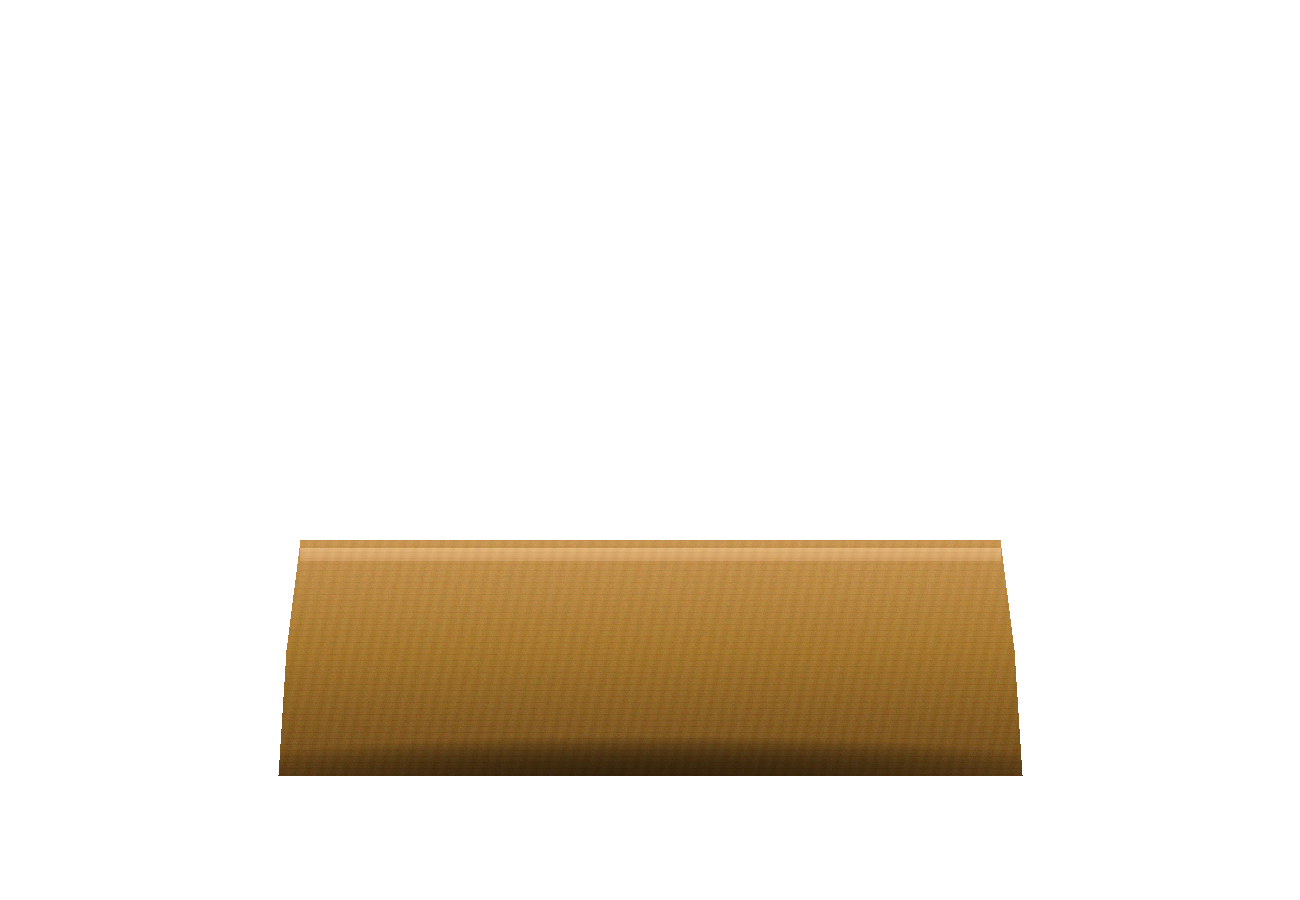
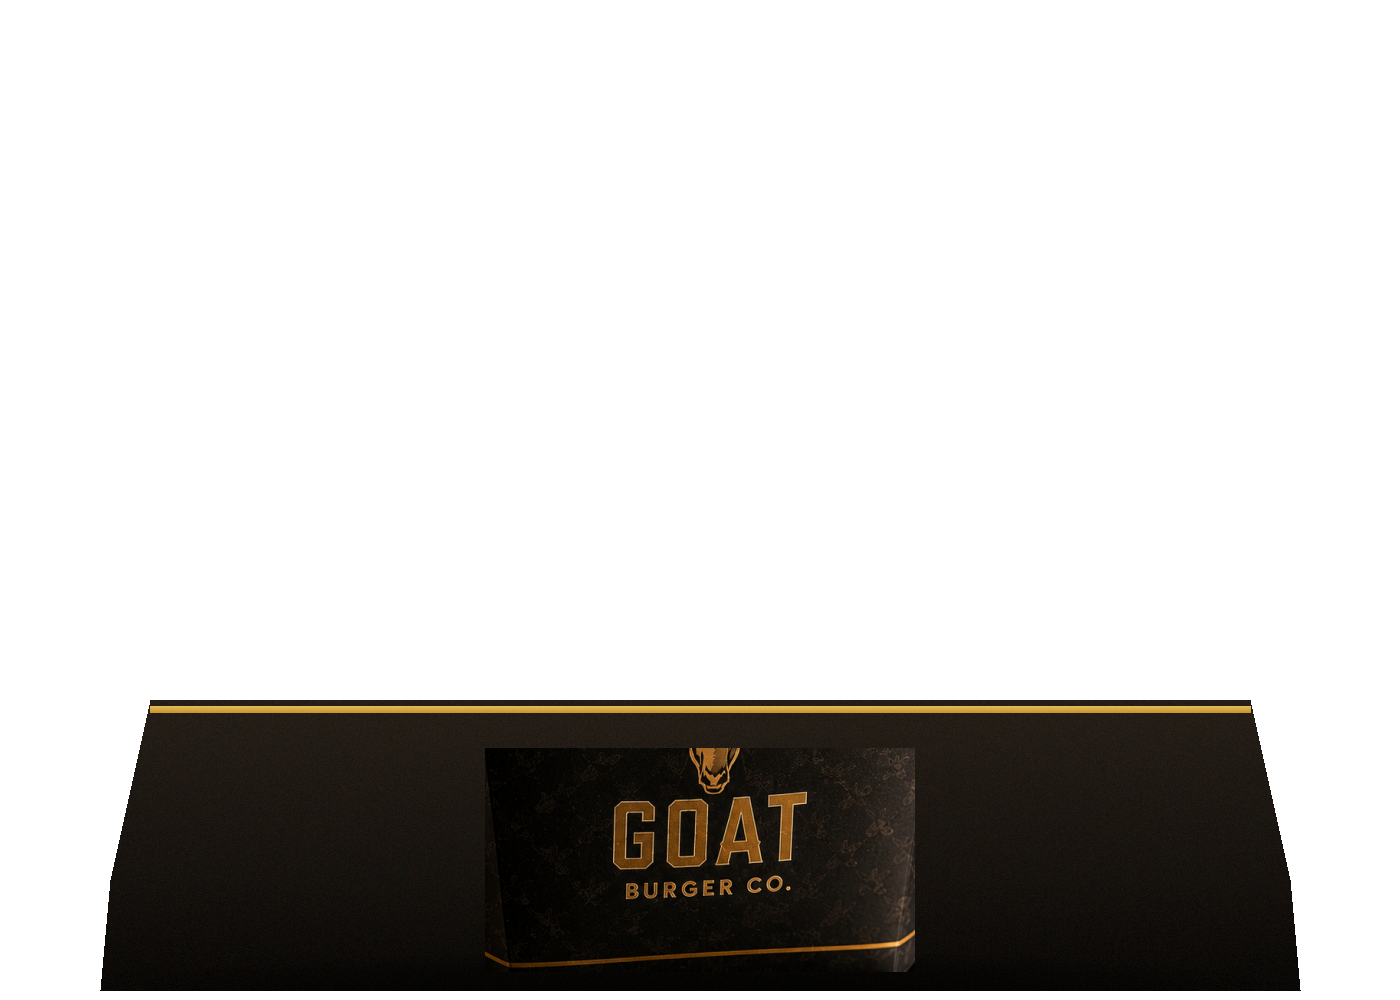
feat: use branded GOAT BURGER CO. assets + one-by-one packing into black+gold box
- menu cards now use the provided branded photos (burger/fries/shake/combo)
- packing box re-skinned to the branded black+gold box (box-back/front/lid via draw-box.js)
- box scene uses the branded burger/fries/shake cutouts (feathered to blend on the black box)
- deconstructed burger crossfades into the branded burger, then items enter ONE BY ONE:
  burger settles -> fries slide in -> shake slides in -> lid folds shut -> existing menu
- track 1200->1320vh to preserve pacing; source assets gitignored

Changed region(s): [[0.0615, 0.5911, 0.9538, 0.9956]]

diff --git a/draw-box.js b/draw-box.js
@@ -1,118 +1,86 @@
-/* Draw a realistic open kraft takeaway box as image pieces I can actually SEE:
-   box-back.png  = interior floor + back wall + side walls (sits BEHIND the food)
-   box-front.png = front wall/rim (sits IN FRONT of the food's base → food looks inside)
-   box-lid.png   = the lid panel (rotates down to close)
-   Plus a preview compositing the food inside, to tune positions. */
+/* Render the GOAT BURGER CO. branded takeaway box (black + gold, matches asset-1):
+   box-back.png  = gold open-lid backdrop (with logo) + black interior floor  (BEHIND food)
+   box-front.png = black front wall with the gold wordmark                    (IN FRONT of food base)
+   box-lid.png   = black lid with the gold logo (folds down to close) */
 const Jimp = require("jimp");
+const W = 1400, H = 1000;
+const rnd = a => (Math.random()*2-1)*a;
 
-const W = 1300, H = 900;
-const rnd = (a) => (Math.random() * 2 - 1) * a;
-
-// fill a convex quad (p0..p3 clockwise) with a vertical gradient + cardboard grain
-function quad(img, p, cTop, cBot, grain = 8) {
-  const xs = p.map(q => q[0]), ys = p.map(q => q[1]);
-  const x0 = Math.max(0, Math.floor(Math.min(...xs))), x1 = Math.min(img.bitmap.width - 1, Math.ceil(Math.max(...xs)));
-  const y0 = Math.max(0, Math.floor(Math.min(...ys))), y1 = Math.min(img.bitmap.height - 1, Math.ceil(Math.max(...ys)));
-  const yTop = Math.min(...ys), yBot = Math.max(...ys);
-  const inTri = (px, py, a, b, c) => {
-    const d1 = (px - b[0]) * (a[1] - b[1]) - (a[0] - b[0]) * (py - b[1]);
-    const d2 = (px - c[0]) * (b[1] - c[1]) - (b[0] - c[0]) * (py - c[1]);
-    const d3 = (px - a[0]) * (c[1] - a[1]) - (c[0] - a[0]) * (py - a[1]);
-    const neg = (d1 < 0) || (d2 < 0) || (d3 < 0), pos = (d1 > 0) || (d2 > 0) || (d3 > 0);
-    return !(neg && pos);
-  };
-  const d = img.bitmap.data, w = img.bitmap.width;
-  for (let y = y0; y <= y1; y++) for (let x = x0; x <= x1; x++) {
-    if (!(inTri(x, y, p[0], p[1], p[2]) || inTri(x, y, p[0], p[2], p[3]))) continue;
-    let t = (y - yTop) / (yBot - yTop + 1e-6);
-    // horizontal corrugation + grain
-    const corr = Math.sin((x + y * 0.2) * 0.5) * 3 + (((y % 6) < 1) ? -6 : 0);
-    const r = cTop[0] + (cBot[0] - cTop[0]) * t + rnd(grain) + corr;
-    const g = cTop[1] + (cBot[1] - cTop[1]) * t + rnd(grain) + corr;
-    const b = cTop[2] + (cBot[2] - cTop[2]) * t + rnd(grain) + corr;
-    const i = (y * w + x) * 4;
-    d[i] = Math.max(0, Math.min(255, r)); d[i+1] = Math.max(0, Math.min(255, g)); d[i+2] = Math.max(0, Math.min(255, b)); d[i+3] = 255;
+function quad(img, p, cTop, cBot, grain=6){
+  const xs=p.map(q=>q[0]), ys=p.map(q=>q[1]);
+  const x0=Math.max(0,Math.floor(Math.min(...xs))), x1=Math.min(img.bitmap.width-1,Math.ceil(Math.max(...xs)));
+  const y0=Math.max(0,Math.floor(Math.min(...ys))), y1=Math.min(img.bitmap.height-1,Math.ceil(Math.max(...ys)));
+  const yTop=Math.min(...ys), yBot=Math.max(...ys);
+  const inTri=(px,py,a,b,c)=>{const d1=(px-b[0])*(a[1]-b[1])-(a[0]-b[0])*(py-b[1]);const d2=(px-c[0])*(b[1]-c[1])-(b[0]-c[0])*(py-c[1]);const d3=(px-a[0])*(c[1]-a[1])-(c[0]-a[0])*(py-a[1]);const neg=(d1<0)||(d2<0)||(d3<0),pos=(d1>0)||(d2>0)||(d3>0);return !(neg&&pos);};
+  const d=img.bitmap.data,w=img.bitmap.width;
+  for(let y=y0;y<=y1;y++)for(let x=x0;x<=x1;x++){
+    if(!(inTri(x,y,p[0],p[1],p[2])||inTri(x,y,p[0],p[2],p[3])))continue;
+    const t=(y-yTop)/(yBot-yTop+1e-6);
+    const r=cTop[0]+(cBot[0]-cTop[0])*t+rnd(grain), g=cTop[1]+(cBot[1]-cTop[1])*t+rnd(grain), b=cTop[2]+(cBot[2]-cTop[2])*t+rnd(grain);
+    const i=(y*w+x)*4; d[i]=Math.max(0,Math.min(255,r));d[i+1]=Math.max(0,Math.min(255,g));d[i+2]=Math.max(0,Math.min(255,b));d[i+3]=255;
   }
 }
-// soft drop shadow ellipse (darken)
-function shadow(img, cx, cy, rx, ry, al) {
-  const d = img.bitmap.data, w = img.bitmap.width, h = img.bitmap.height;
-  for (let y = Math.max(0, cy - ry); y < Math.min(h, cy + ry); y++)
-    for (let x = Math.max(0, cx - rx); x < Math.min(w, cx + rx); x++) {
-      const dx = (x - cx) / rx, dy = (y - cy) / ry, tt = dx*dx + dy*dy;
-      if (tt < 1) { const a = al * (1 - tt); const i = (y*w+x)*4;
-        d[i] *= (1-a); d[i+1] *= (1-a); d[i+2] *= (1-a); }
-    }
-}
+function shadow(img,cx,cy,rx,ry,al){const d=img.bitmap.data,w=img.bitmap.width,h=img.bitmap.height;
+  for(let y=Math.max(0,cy-ry);y<Math.min(h,cy+ry);y++)for(let x=Math.max(0,cx-rx);x<Math.min(w,cx+rx);x++){
+    const dx=(x-cx)/rx,dy=(y-cy)/ry,tt=dx*dx+dy*dy;if(tt<1){const a=al*(1-tt);const i=(y*w+x)*4;d[i]*=(1-a);d[i+1]*=(1-a);d[i+2]*=(1-a);}}}
 
-const KL = [201,151,84], KM = [165,119,47], KD = [110,74,28], KDK=[70,47,20], INT=[38,25,14], INTD=[20,12,6];
+const BLK=[22,18,14], BLKD=[10,8,6], BLKL=[38,31,24];
+const GOLD=[201,150,46], GOLDL=[228,186,88], GOLDD=[140,104,30];
 
-(async () => {
-  // ---------- BOX BACK (interior) ----------
-  const back = new Jimp(W, H, 0x00000000);
-  // interior darkness (so food reads as sitting in a cavity)
-  quad(back, [[300,470],[1000,470],[900,300],[400,300]], INTD, INT, 4);
-  // back wall (kraft, shadowed)
-  quad(back, [[430,455],[870,455],[880,345],[420,345]], KDK, KD, 6);
-  // interior floor (kraft, lit — food sits here)
-  quad(back, [[330,650],[970,650],[880,470],[450,470]], KM, KL, 7);
-  // left inner wall
-  quad(back, [[330,650],[450,470],[420,345],[300,540]], KD, KM, 6);
-  // right inner wall
-  quad(back, [[970,650],[880,470],[880,345],[1000,540]], KD, KM, 6);
-  // outer left & right box walls (below, exterior sides)
-  quad(back, [[300,540],[330,650],[318,760],[286,650]], KM, KDK, 6);
-  quad(back, [[1000,540],[970,650],[982,760],[1014,650]], KM, KDK, 6);
-  // ambient occlusion in the cavity
-  shadow(back, 650, 470, 420, 130, 0.35);
+(async()=>{
+  const mark = await Jimp.read("goat-mark.png");                 // gold logo on black
+  // black silhouette version of the logo (for the gold backdrop)
+  const markDark = mark.clone();
+  { const d=markDark.bitmap.data,n=markDark.bitmap.width*markDark.bitmap.height;
+    for(let p=0;p<n;p++){const i=p*4;const l=0.299*d[i]+0.587*d[i+1]+0.114*d[i+2];
+      if(l>55){d[i]=26;d[i+1]=20;d[i+2]=12;d[i+3]=255;} else {d[i+3]=0;} } }
+
+  // ---------- BOX BACK: black interior (so the black-backed food blends) ----------
+  const back=new Jimp(W,H,0x00000000);
+  // raised back wall (the open lid, seen edge-on) — black with a thin gold rim
+  quad(back, [[150,60],[1250,60],[1210,470],[190,470]], BLKL, BLK, 5);
+  quad(back, [[150,60],[1250,60],[1250,74],[150,74]], GOLDD, GOLDD, 2);   // top gold rim of the raised lid
+  // black interior floor (food sits here)
+  quad(back, [[190,860],[1210,860],[1080,470],[320,470]], BLK, BLKD, 5);
+  // black side walls
+  quad(back, [[190,860],[320,470],[300,430],[170,760]], BLKD, BLK, 4);
+  quad(back, [[1210,860],[1080,470],[1100,430],[1230,760]], BLKD, BLK, 4);
+  shadow(back, 700, 500, 540, 130, 0.45);                                  // cavity occlusion
+  // subtle gold goat emblem on the back wall (behind the food)
+  const md = mark.clone().resize(360, Jimp.AUTO); md.opacity(0.5);
+  back.composite(md, (W-md.bitmap.width)/2, 150);
   await back.writeAsync("box-back.png");
 
-  // ---------- BOX FRONT (front wall / rim that overlaps the food base) ----------
-  const front = new Jimp(W, H, 0x00000000);
-  quad(front, [[286,650],[1014,650],[1000,540],[300,540]], KL, KM, 7);      // front wall top band (rim, lit)
-  quad(front, [[286,650],[1014,650],[1022,775],[278,775]], KM, KD, 7);       // front wall body
-  // rim highlight
-  quad(front, [[300,548],[1000,548],[1000,560],[300,560]], [225,180,120], [210,160,100], 3);
-  shadow(front, 650, 775, 470, 40, 0.5);                                     // contact shadow under box
+  // ---------- BOX FRONT: black front wall + gold wordmark ----------
+  const front=new Jimp(W,H,0x00000000);
+  quad(front, [[150,700],[1250,700],[1290,880],[110,880]], BLKL, BLK, 6);   // front wall (lit top edge)
+  quad(front, [[110,880],[1290,880],[1300,990],[100,990]], BLK, BLKD, 6);   // lower front
+  // gold hairline
+  quad(front, [[150,706],[1250,706],[1250,712],[150,712]], GOLDL, GOLD, 2);
+  const mf = mark.clone().resize(430, Jimp.AUTO);
+  front.composite(mf, (W-mf.bitmap.width)/2, 748);
+  shadow(front, 700, 985, 560, 34, 0.5);
   await front.writeAsync("box-front.png");
 
-  // ---------- BOX LID (folds down to close) ----------
-  const lidW = 760, lidH = 250;
-  const lid = new Jimp(lidW, lidH, 0x00000000);
-  quad(lid, [[0,0],[lidW,0],[lidW,lidH],[0,lidH]], KL, KM, 7);
-  // crease + edge shading
-  quad(lid, [[0,lidH-14],[lidW,lidH-14],[lidW,lidH],[0,lidH]], KD, KDK, 4);
-  // subtle embossed wordmark (low-contrast)
-  const font = await Jimp.loadFont(Jimp.FONT_SANS_32_BLACK);
-  const stamp = new Jimp(lidW, lidH, 0x00000000);
-  stamp.print(font, 0, lidH/2-24, { text: "GOAT BURGER CO.", alignmentX: Jimp.HORIZONTAL_ALIGN_CENTER }, lidW);
-  stamp.opacity(0.16); lid.composite(stamp, 0, 0);
+  // ---------- BOX LID: black lid with gold logo (folds to close) ----------
+  const lidW=1180, lidH=360;
+  const lid=new Jimp(lidW,lidH,0x00000000);
+  quad(lid, [[0,0],[lidW,0],[lidW,lidH],[0,lidH]], BLKL, BLK, 6);
+  quad(lid, [[0,0],[lidW,0],[lidW,14],[0,14]], GOLDL, GOLDD, 2);            // rim
+  const ml = mark.clone().resize(480, Jimp.AUTO);
+  lid.composite(ml, (lidW-ml.bitmap.width)/2, (lidH-ml.bitmap.height)/2);
   await lid.writeAsync("box-lid.png");
 
-  // ---------- feather the fries/shake cutouts so their backgrounds vanish ----------
-  const feather = (img, inner, outer) => {
-    const w = img.bitmap.width, h = img.bitmap.height, d = img.bitmap.data, hw = w/2, hh = h/2;
-    for (let y=0;y<h;y++) for (let x=0;x<w;x++){
-      const dx=(x-hw)/hw, dy=(y-hh)/hh, dist=Math.sqrt(dx*dx+dy*dy);
-      let a=(outer-dist)/(outer-inner); a=a<0?0:a>1?1:a;
-      const i=(y*w+x)*4; d[i+3]=Math.round(d[i+3]*a);
-    }
-  };
-  const friesF = await Jimp.read("fries.png"); feather(friesF, 0.58, 1.02); await friesF.writeAsync("fries.png");
-  const shakeF = await Jimp.read("shake.png"); feather(shakeF, 0.5, 1.0);  await shakeF.writeAsync("shake.png");
-
-  // ---------- PREVIEW: food packed inside ----------
-  const prev = new Jimp(W, H, 0x0d0c0bff);
-  prev.composite(back, 0, 0);
-  const burger = (await Jimp.read("burger-cut.png")).resize(Jimp.AUTO, 320);
-  const fries  = (await Jimp.read("fries.png")).resize(Jimp.AUTO, 300);
-  const shake  = (await Jimp.read("shake.png")).resize(Jimp.AUTO, 330);
-  const sauce  = (await Jimp.read("sauce.png")).resize(160, Jimp.AUTO);
-  prev.composite(fries,  300, 330);
-  prev.composite(burger, 540, 300);
-  prev.composite(shake,  770, 300);
-  prev.composite(sauce,  600, 540);
-  prev.composite(front, 0, 0);
+  // ---------- PREVIEW: packed ----------
+  const prev=new Jimp(W,H,0x08070699|0x000000ff); // dark
+  prev.composite(back,0,0);
+  const bg=(await Jimp.read("burger.png")).resize(Jimp.AUTO,360);
+  const fr=(await Jimp.read("fries.png")).resize(Jimp.AUTO,360);
+  const sh=(await Jimp.read("shake.png")).resize(Jimp.AUTO,400);
+  prev.composite(fr, 250, 470);
+  prev.composite(bg, 560, 470);
+  prev.composite(sh, 930, 430);
+  prev.composite(front,0,0);
   await prev.writeAsync("debug-packed.png");
-  console.log(JSON.stringify({ back:"box-back.png", front:"box-front.png", lid:lidW+"x"+lidH, preview:"debug-packed.png" }));
-})().catch(e => console.error("ERR", e.message));
+  console.log(JSON.stringify({back:"1400x1000",front:"1400x1000",lid:lidW+"x"+lidH}));
+})().catch(e=>console.error("ERR",e.message));

diff --git a/app.js b/app.js
@@ -138,52 +138,60 @@
        ========================================================= */
     const boxBack=document.getElementById("boxBack"), boxFront=document.getElementById("boxFront"),
       boxLid=document.getElementById("boxLid"),
-      pFries=document.getElementById("pFries"), pShake=document.getElementById("pShake"),
-      pSauce=document.getElementById("pSauce");
+      pBurger=document.getElementById("pBurger"),
+      pFries=document.getElementById("pFries"), pShake=document.getElementById("pShake");
 
-    // box display geometry (matches CSS width; image aspect 1300x900)
-    const BW = Math.min(window.innerWidth * (isDesktop ? 0.84 : 0.96), 940);
-    const BH = BW * 900 / 1300;
-    // size the food to real proportions of the box, then position by box fractions
-    pFries.style.height = (0.30 * BH) + "px";
-    pShake.style.height = (0.34 * BH) + "px";
-    pSauce.style.height = (0.17 * BH) + "px";
-    const camBox = (0.34 * BH) / H;   // burger height ≈ 0.34 of the box height
+    // box display geometry (matches CSS width; branded box image aspect 1400x1000)
+    const BW = Math.min(window.innerWidth * (isDesktop ? 0.88 : 0.97), 1000);
+    const BH = BW * 1000 / 1400;
+    // size the branded food to real proportions of the box
+    pBurger.style.height = (0.40 * BH) + "px";
+    pFries.style.height  = (0.40 * BH) + "px";
+    pShake.style.height  = (0.46 * BH) + "px";
 
-    // initial: food off to the sides / below, box below with lid folded open
-    gsap.set([pFries,pShake,pSauce], { autoAlpha:0 });
-    gsap.set(pFries, { x:-BW*0.55, y:BH*0.10, scale:1.35, rotation:-6 });
-    gsap.set(pShake, { x: BW*0.55, y:BH*0.02, scale:1.35, rotation:5 });
-    gsap.set(pSauce, { x:-BW*0.10, y:BH*0.9,  scale:1.1 });
+    // settled positions inside the box (from the packed-box render)
+    const S = {
+      burger:{ x: 0,          y: BH*0.16 },
+      fries: { x:-BW*0.245,   y: BH*0.15 },
+      shake: { x: BW*0.245,   y: BH*0.12 },
+    };
+
+    // initial: everything hidden; box below with the branded lid folded open
+    gsap.set([pBurger,pFries,pShake], { autoAlpha:0 });
+    gsap.set(pBurger, { x:0, y:-BH*0.55, scale:1.25 });
+    gsap.set(pFries,  { x:-BW*0.85, y:S.fries.y, rotation:-5 });
+    gsap.set(pShake,  { x: BW*0.85, y:S.shake.y, rotation:5 });
     gsap.set([boxBack,boxFront], { autoAlpha:0, y:BH*1.15 });
-    gsap.set(boxLid, { autoAlpha:0, y:-BH*0.30, rotationX:-105, transformPerspective:900 });
+    gsap.set(boxLid, { autoAlpha:0, y:-BH*0.34, rotationX:-105, transformPerspective:1000 });
 
     const cap = capNodes.goat, P = tl.duration();   // anchor right after the film ends
     if (cap) tl.to(cap, { autoAlpha:0, y:-18, duration:.4 }, P);
 
-    // 1 — MEAL FORMS: burger shrinks; real fries/shake/sauce glide in as one combo
-    tl.to(camera, { scale:camBox*1.45, y:-BH*0.05, rotation:0, duration:1 }, P);
-    tl.to(pFries, { autoAlpha:1, x:-BW*0.30, y:BH*0.08, scale:1.2, rotation:-3, duration:1 }, P);
-    tl.to(pShake, { autoAlpha:1, x: BW*0.30, y:BH*0.02, scale:1.2, rotation:3,  duration:1 }, P);
-    tl.to(pSauce, { autoAlpha:1, x:-BW*0.08, y:BH*0.34, scale:0.95, duration:1 }, P+0.1);
-    tl.to(glow,   { scale:1.05, opacity:.9, duration:1 }, P);
+    // 0 — hand-off: the deconstructed burger reassembles then CROSSFADES into the
+    //     branded GOAT burger (same spot, same size) so it feels like one object
+    tl.to(camera,  { autoAlpha:0, scale:"-=0.15", duration:.8 }, P);
+    tl.to(pBurger, { autoAlpha:1, duration:.8 }, P+0.1);
+    tl.to(glow,    { scale:1.05, opacity:.9, duration:1 }, P);
 
-    // 2 — OPEN BOX rises in behind/around the meal
+    // 1 — OPEN BRANDED BOX rises in
     tl.to([boxBack,boxFront], { autoAlpha:1, y:0, duration:1 }, P+1);
 
-    // 3 — MEAL SETTLES INSIDE the box (real positions, front wall overlaps the bases)
-    tl.to(camera, { scale:camBox, y:-BH*0.02, duration:1.2 }, P+2);
-    tl.to(pFries, { x:-BW*0.19, y:BH*0.03, scale:1, rotation:-2, duration:1.2 }, P+2);
-    tl.to(pShake, { x: BW*0.19, y:BH*0.00, scale:1, rotation:2,  duration:1.2 }, P+2);
-    tl.to(pSauce, { x: BW*0.02, y:BH*0.20, scale:1, duration:1.2 }, P+2);
+    // 2 — BURGER settles into the box (centre)
+    tl.to(pBurger, { x:S.burger.x, y:S.burger.y, scale:1, duration:1.1, ease:"power2.out" }, P+1.4);
 
-    // 4 — BOX CLOSES: lid rises into place, then folds down over the packed meal
-    tl.to(boxLid, { autoAlpha:1, duration:.3 }, P+3.2);
-    tl.to(boxLid, { rotationX:0, duration:1.3, ease:"power2.inOut" }, P+3.4);
-    tl.to(glow,   { scale:.95, opacity:.7, duration:1.3 }, P+3.4);
+    // 3 — FRIES slide in from the left
+    tl.to(pFries, { autoAlpha:1, x:S.fries.x, rotation:0, duration:1.1, ease:"power2.out" }, P+2.4);
 
-    // 5 — settle: a properly packed GOAT BURGER CO. order held briefly
-    tl.to([boxBack,boxFront,boxLid], { scale:1.015, duration:.5 }, P+4.7);
+    // 4 — SHAKE slides in from the right
+    tl.to(pShake, { autoAlpha:1, x:S.shake.x, rotation:0, duration:1.1, ease:"power2.out" }, P+3.3);
+
+    // 5 — BOX CLOSES: the branded lid folds down over the packed meal
+    tl.to(boxLid, { autoAlpha:1, duration:.3 }, P+4.3);
+    tl.to(boxLid, { rotationX:0, duration:1.4, ease:"power2.inOut" }, P+4.5);
+    tl.to(glow,   { scale:.9, opacity:.65, duration:1.4 }, P+4.5);
+
+    // 6 — settle: a properly packed GOAT BURGER CO. order held briefly
+    tl.to([boxBack,boxFront,boxLid], { scale:1.015, duration:.5 }, P+6.0);
 
     return () => { tl.scrollTrigger && tl.scrollTrigger.kill(); tl.kill(); };
   });

diff --git a/process-assets.js b/process-assets.js
@@ -1,0 +1,53 @@
+/* Turn the provided branded assets into web-ready files:
+   - menu-*.jpg  : optimized card images (used as-is on the dark cards)
+   - burger/fries/shake .png : edge-feathered cutouts for the packing box scene
+   - goat-mark.png : gold goat logo cropped for the box branding */
+const Jimp = require("jimp");
+
+// fade alpha within the outer `m` fraction of each edge (keeps centred subject,
+// dissolves the black photo border so it blends into the dark box floor)
+function edgeFeather(img, m) {
+  const w = img.bitmap.width, h = img.bitmap.height, d = img.bitmap.data;
+  const mx = w * m, my = h * m;
+  for (let y = 0; y < h; y++) for (let x = 0; x < w; x++) {
+    const fx = Math.min(1, Math.min(x, w - 1 - x) / mx);
+    const fy = Math.min(1, Math.min(y, h - 1 - y) / my);
+    const a = Math.min(fx, fy);
+    const i = (y * w + x) * 4; d[i + 3] = Math.round(d[i + 3] * a);
+  }
+}
+const cropFrac = (img, x0, y0, x1, y1) => {
+  const w = img.bitmap.width, h = img.bitmap.height;
+  return img.clone().crop(Math.round(x0*w), Math.round(y0*h), Math.round((x1-x0)*w), Math.round((y1-y0)*h));
+};
+
+(async () => {
+  // ---------- MENU CARD IMAGES (optimized JPEGs, already on black) ----------
+  const mkMenu = async (src, out, wdt) => {
+    const im = await Jimp.read(src); im.resize(wdt, Jimp.AUTO); await im.quality(82).writeAsync(out);
+    return out + " " + im.bitmap.width + "x" + im.bitmap.height;
+  };
+  const m1 = await mkMenu("asset-6.png", "menu-burger.jpg", 1050);
+  const m2 = await mkMenu("asset-4.png", "menu-fries.jpg", 1050);
+  const m3 = await mkMenu("asset-5.png", "menu-shake.jpg", 900);
+  const m4 = await mkMenu("asset-2.png", "menu-combo.jpg", 1400);
+
+  // ---------- BOX-SCENE FOOD (feathered cutouts of the branded items) ----------
+  // burger: fills the square frame
+  let burger = cropFrac(await Jimp.read("asset-6.png"), 0.04, 0.03, 0.96, 0.99);
+  edgeFeather(burger, 0.10); await burger.writeAsync("burger.png");
+  // fries box: centred column
+  let fries = cropFrac(await Jimp.read("asset-4.png"), 0.24, 0.02, 0.76, 1.0);
+  edgeFeather(fries, 0.10); await fries.writeAsync("fries.png");
+  // shake cup: centred column
+  let shake = cropFrac(await Jimp.read("asset-5.png"), 0.18, 0.02, 0.82, 0.99);
+  edgeFeather(shake, 0.10); await shake.writeAsync("shake.png");
+
+  // ---------- GOLD GOAT MARK for the box branding (from the fries box logo) ----------
+  let mark = cropFrac(await Jimp.read("asset-4.png"), 0.30, 0.66, 0.70, 0.92);
+  await mark.writeAsync("goat-mark.png");
+
+  console.log(JSON.stringify({ menus:[m1,m2,m3,m4],
+    box:{ burger:burger.bitmap.width+"x"+burger.bitmap.height, fries:fries.bitmap.width+"x"+fries.bitmap.height, shake:shake.bitmap.width+"x"+shake.bitmap.height },
+    mark:mark.bitmap.width+"x"+mark.bitmap.height }));
+})().catch(e => console.error("ERR", e.message));

diff --git a/styles.css b/styles.css
@@ -154,7 +154,7 @@ img{display:block;max-width:100%}
 @keyframes wheel{0%{opacity:0;transform:translate(-50%,0)}30%{opacity:1}70%{opacity:1;transform:translate(-50%,10px)}100%{opacity:0;transform:translate(-50%,13px)}}
 
 /* the tall scroll track that drives the film (burger story + meal packing) */
-.track{height:1200vh;position:relative;z-index:1}
+.track{height:1320vh;position:relative;z-index:1}
 
 /* =========================================================
    MEAL PACKING — real food + a rendered open kraft box (image pieces).
@@ -165,11 +165,11 @@ img{display:block;max-width:100%}
 .box-layer--front{z-index:3}
 .pack-items{position:absolute;inset:0;pointer-events:none;display:grid;place-items:center;z-index:2}
 .box-layer > img, .pack-items > img{grid-area:1/1;opacity:0;will-change:transform,opacity}
-#boxBack,#boxFront{width:min(84vw,940px);height:auto;filter:drop-shadow(0 34px 44px rgba(0,0,0,.55))}
-#boxLid{width:min(50vw,560px);height:auto;transform-origin:center top;backface-visibility:hidden;
+#boxBack,#boxFront{width:min(88vw,1000px);height:auto;filter:drop-shadow(0 34px 44px rgba(0,0,0,.55))}
+#boxLid{width:min(64vw,760px);height:auto;transform-origin:center top;backface-visibility:hidden;
   filter:drop-shadow(0 12px 18px rgba(0,0,0,.45))}
-.pack__item{height:auto;filter:drop-shadow(0 18px 22px rgba(0,0,0,.5))}
-@media (max-width:640px){ #boxBack,#boxFront{width:96vw} #boxLid{width:64vw} }
+.pack__item{height:auto;filter:drop-shadow(0 18px 22px rgba(0,0,0,.55))}
+@media (max-width:640px){ #boxBack,#boxFront{width:97vw} #boxLid{width:72vw} }
 
 /* =========================================================
    STORE / MENU — light theme, real food photography

diff --git a/index.html b/index.html
@@ -85,9 +85,9 @@
        Driven entirely by the scroll timeline (starts hidden). -->
   <div class="box-layer box-layer--back" aria-hidden="true"><img id="boxBack" src="box-back.png" alt="" decoding="async" /></div>
   <div class="pack-items" id="packItems" aria-hidden="true">
-    <img class="pack__item" id="pFries" src="fries.png" alt="GOAT hand-cut fries" decoding="async" />
+    <img class="pack__item" id="pBurger" src="burger.png" alt="GOAT signature burger" decoding="async" />
+    <img class="pack__item" id="pFries" src="fries.png" alt="GOAT fries" decoding="async" />
     <img class="pack__item" id="pShake" src="shake.png" alt="GOAT shake" decoding="async" />
-    <img class="pack__item" id="pSauce" src="sauce.png" alt="GOAT signature sauce" decoding="async" />
   </div>
   <div class="box-layer box-layer--front" aria-hidden="true">
     <img id="boxFront" src="box-front.png" alt="" decoding="async" />
